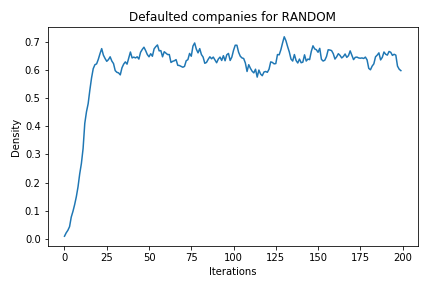
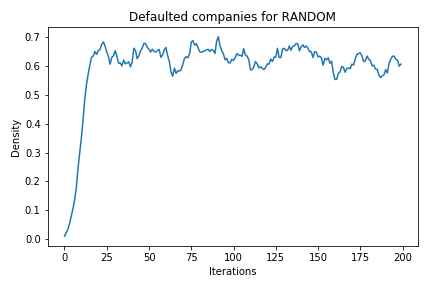
replicate_density and pct_density
Create a function to replicate the experiment n times, and then calculate the pct

diff --git a/to_do_plots.py b/to_do_plots.py
@@ -18,10 +18,29 @@ density_plot(g,
              iterations = 200)
          
 '''
-sn = SecNet(g, mu = 0.2, beta = 0.6, 
-                                reconnection_policy = ReconnectionPolicy.RANDOM, 
-                                default_delay = 2  , weight_transfer = False)
-sn.run(150,variation_coeff = 10e-5)
-print(sn.defaulted_density)
-print(np.mean(sn.defaulted_density[-10:]))
-sn.plot()
+def replicate_density (niter = 100, 
+                       beta = 0.6):
+    dens = []
+    for i in range (niter):
+        sn = SecNet(g, mu = 0.2, 
+                    beta = beta, 
+                    reconnection_policy = ReconnectionPolicy.SOFT, 
+                    default_delay = 2  , 
+                    weight_transfer = False)
+        sn.run(400,variation_coeff = 10e-5)
+        sn.plot()
+        dens.append( sn.defaulted_density[- 1] )
+        print(i)
+        return (dens)
+
+replicate_density(niter 100, beta = 0.5 )
+
+def pct_density(dens):
+    count = 0
+    for i in range(100):
+        if (np.array(dens[i]) > 0.1):
+            count = count + 1       
+    print(count/100)
+
+
+replicate_density(dens)
